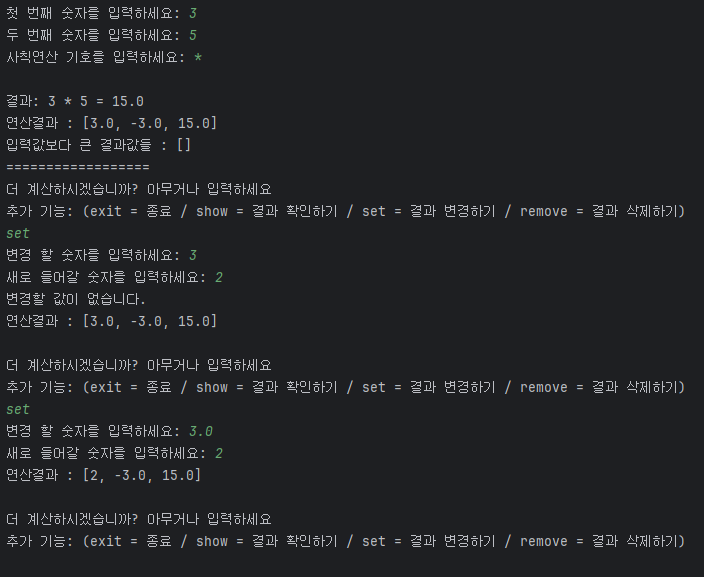
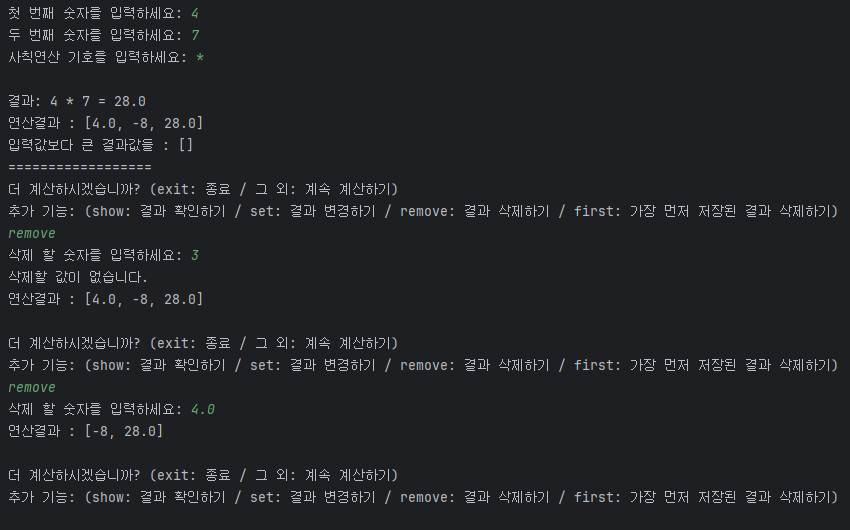
:memo: docs(README): first 기능 반영
first 기능과 removeResultByIndex 메서드 내용을 반영한다.

diff --git a/README.md b/README.md
@@ -35,6 +35,7 @@
     - `Calculator` 클래스에서 **연산 결과를 저장하는 컬렉션 타입 필드**를 생성한다.
     - `App` 클래스의 `main` 메서드에 `Calculator` 클래스가 활용돼야 한다.
     - `Calculator` 클래스의 **캡슐화**로, **간접 접근**을 통해 값을 **가져오고, 수정하고, 삭제한다.**
+      - 가장 먼저 저장된 데이터를 삭제하는 기능을 가진 메서드를 구현해야 한다.
 - `Lv3`
     - `Enum` 타입을 활용하여 **연산자 타입에 대한 정보를 관리**한다.
     - **`double` 타입의 값**을 전달 받아도 연산이 수행되도록 한다.
@@ -67,38 +68,41 @@
     - addResult : 결과값을 `resultList`에 저장한다.
     - setResult : `resultList`의 요소를 변경한다.
     - removeResult : `resultList`의 요소를 삭제한다.
+    - removeResultByIndex : `resultList`의 요소를 인덱스로 찾아서 삭제한다.
 ---
 ## 실행 화면
 클래스를 활용한 계산기 `Lv3`
 
 ### 연산 수행
-피연산자와 연산자가 올바르지 않으면, 해당 값을 다시 입력받는다.<br>
-그 후 연산자에 맞는 연산을 진행한다.
+피연산자와 연산자를 입력받고, 연산을 진행한다.
 
-연산이 종료되면, 연산결과와 입력값보다 큰 결과값들을 출력해주고, 추가기능을 보여준다.
+연산 결과와 입력값보다 큰 결과값들을 출력해주고, 더 계산할 것인지, 추가기능을 할건지 물어보고 상황에 맞춰 진행한다.
 
 #### 1. 덧셈
 ![실행화면_문자_덧셈.png](readme/%EC%8B%A4%ED%96%89%ED%99%94%EB%A9%B4_%EB%AC%B8%EC%9E%90_%EB%8D%A7%EC%85%88.png)
 
-피연산자와 연산자가 올바르지 않으면 다시 입력받는다.<br>
-추가기능에서 아무것도 입력안하면, 새로 연산이 시작된다.
+피연산자와 연산자가 올바르지 않으면 다시 입력받는다.
+
+`show` 를 입력하면 지금까지의 연산결과가 출력된다.<br>
+아무것도 입력안하면, 계속 연산이 진행된다.
 
 #### 2. 뺄셈
 ![실행화면_음수_뺄셈.png](readme/%EC%8B%A4%ED%96%89%ED%99%94%EB%A9%B4_%EC%9D%8C%EC%88%98_%EB%BA%84%EC%85%88.png)
 
-`show` 를 선택하면 지금까지의 연산결과가 출력된다.
+`set` 을 입력한 후, 변경할 숫자와 새로 들어갈 숫자를 입력하면, 연산결과에 값이 교체된 것을 확인할 수 있다.<br>
+이때, 결과에 없는 값을 입력하면 "변경할 값이 없습니다."라며 취소된다.
 
 #### 3. 곱셈
 ![실행화면_곱셈.png](readme/%EC%8B%A4%ED%96%89%ED%99%94%EB%A9%B4_%EA%B3%B1%EC%85%88.png)
 
-`set` 을 선택한 후, 변경할 숫자와 새로 들어갈 숫자를 입력하면, 연산결과에 값이 교체된 것을 확인할 수 있다.<br>
-이때, 결과에 없는 값을 출력하면 "변경할 값이 없습니다."라며 취소된다.
+`remove` 를 입력한 후, 삭제할 숫자를 입력하면 그 값이 연산결과에서 삭제된다. <br>
+이때, 결과에 없는 값을 입력하면 "삭제할 값이 없습니다."라며 취소된다.
 
 #### 4. 나눗셈
 
 ![실행화면_분모_나눗셈.png](readme/%EC%8B%A4%ED%96%89%ED%99%94%EB%A9%B4_%EB%B6%84%EB%AA%A8_%EB%82%98%EB%88%97%EC%85%88.png)
 
-나눗셈 연산 과정에서, 두번째 숫자가 0이면 다시 두 숫자를 입력받는다.
+나눗셈 연산 과정에서, 두번째 숫자가 0이면 다시 두 숫자부터 입력받는다.
 
-`remove` 를 선택한 후, 삭제할 숫자를 입력하면 그 값이 연산결과에서 사라진다. <br>
-이때, 결과에 없는 값을 출력하면 "삭제할 값이 없습니다."라며 취소된다.
+`first` 를 입력하면, 저장되어있던 연산결과 중, 가장 먼저 저장된 결과를 삭제한다. <br>
+만약, 저장되어있는 연산 결과가 없으면 "삭제할 값이 없습니다."라며 취소된다.
